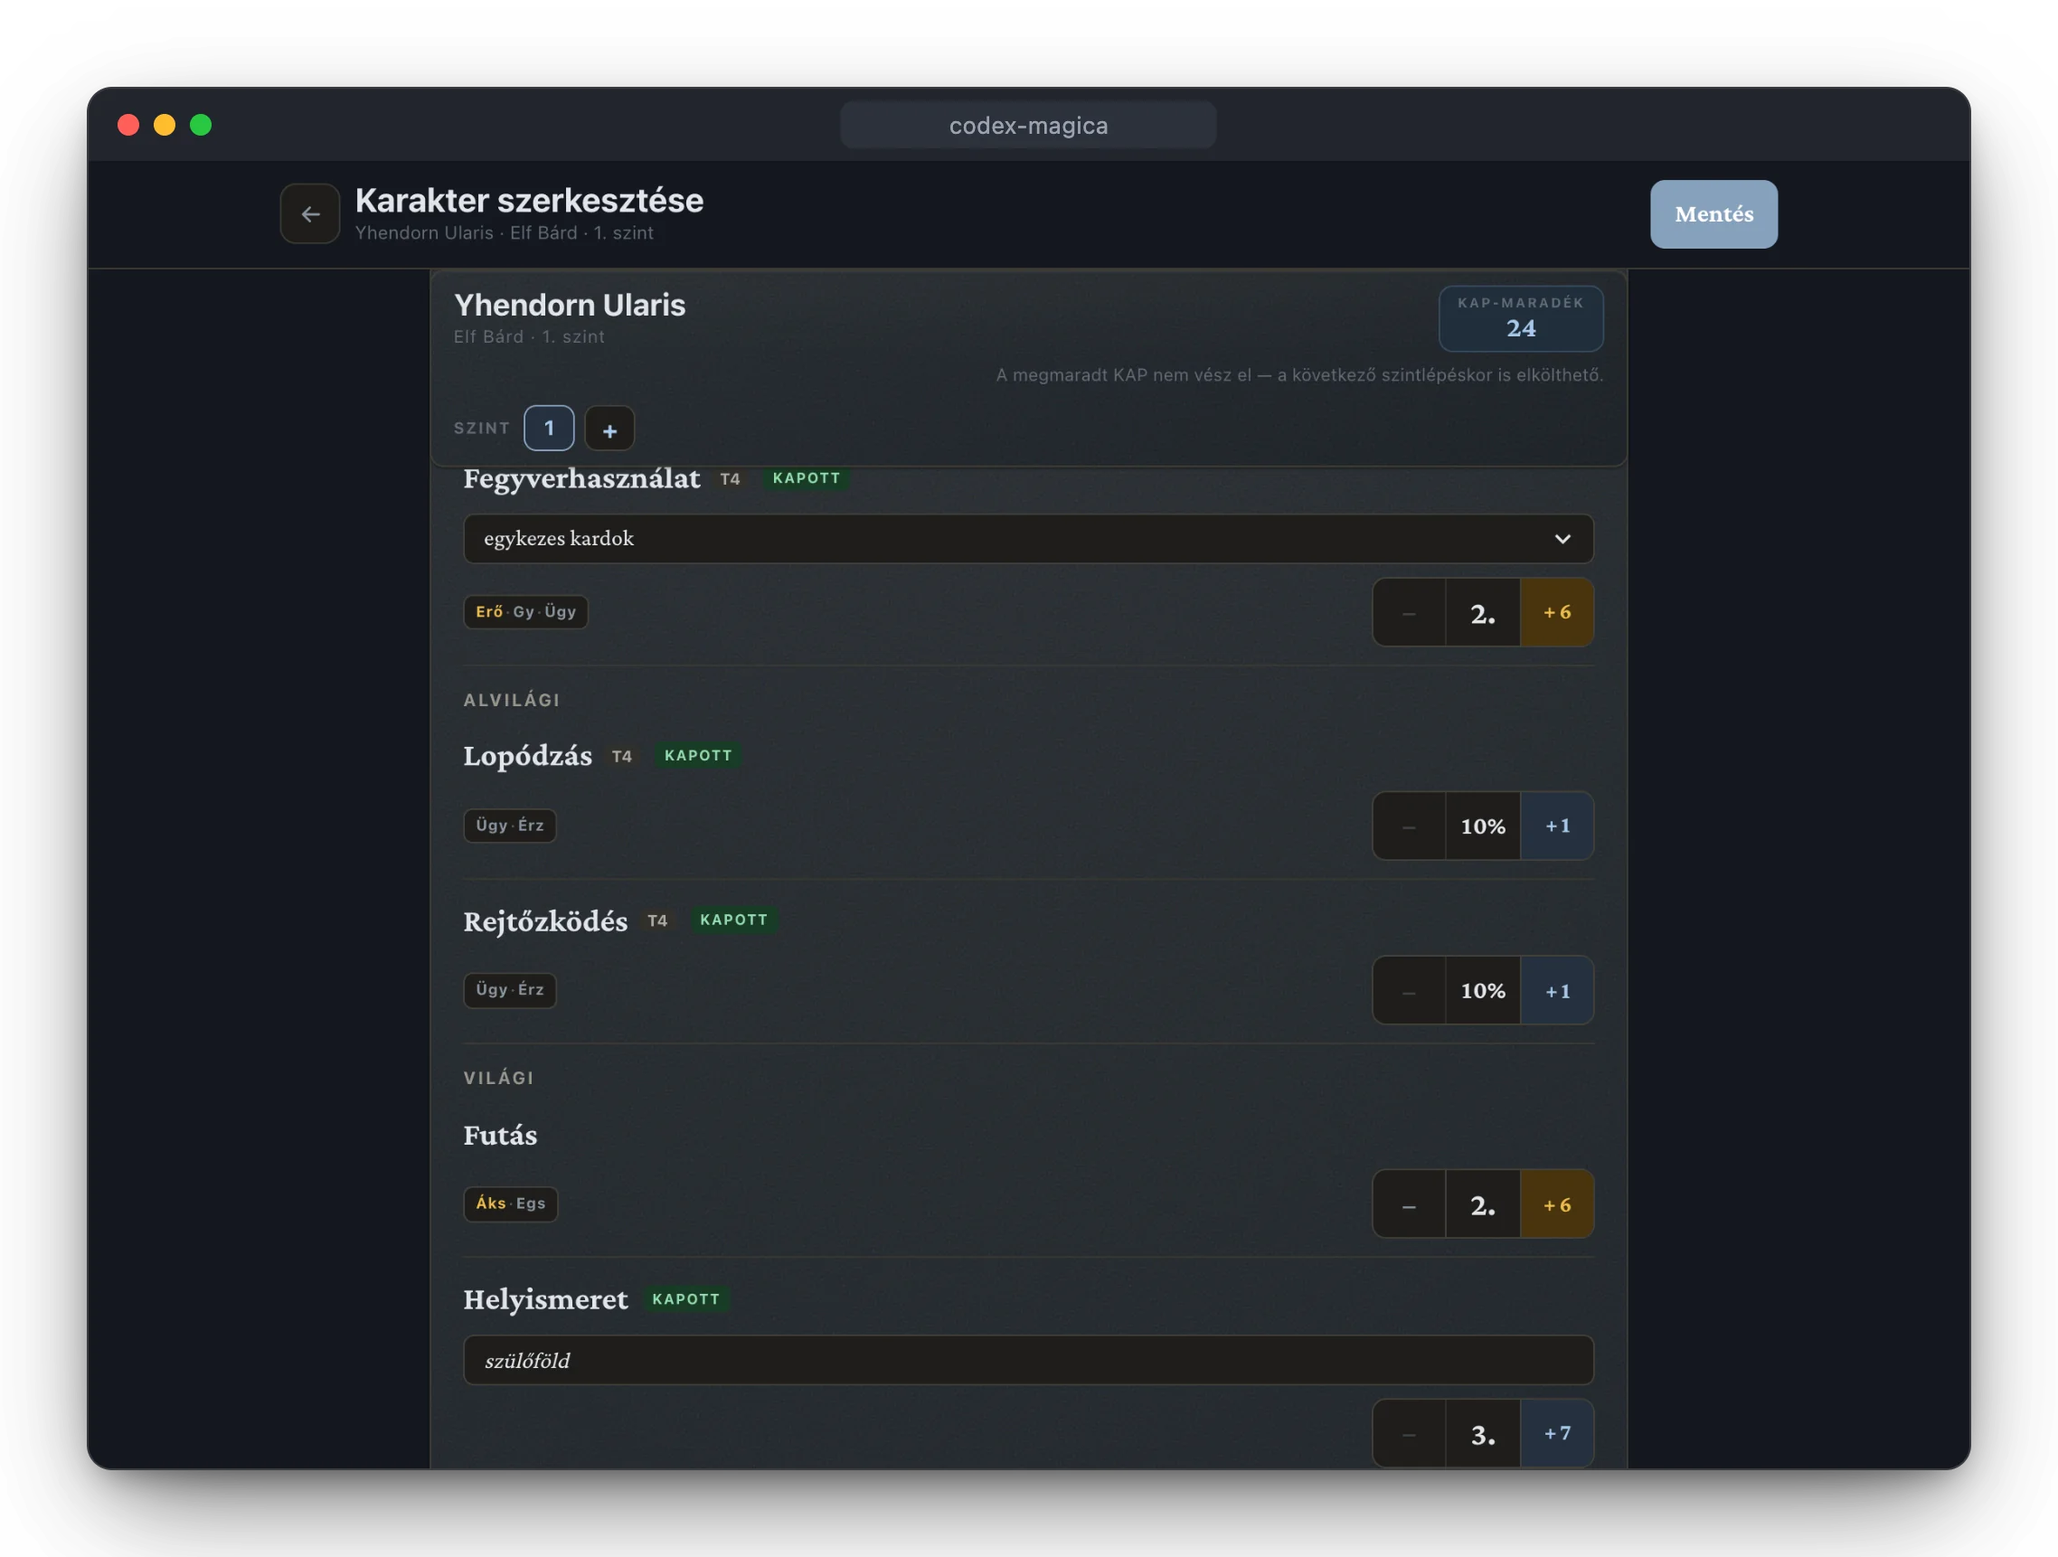
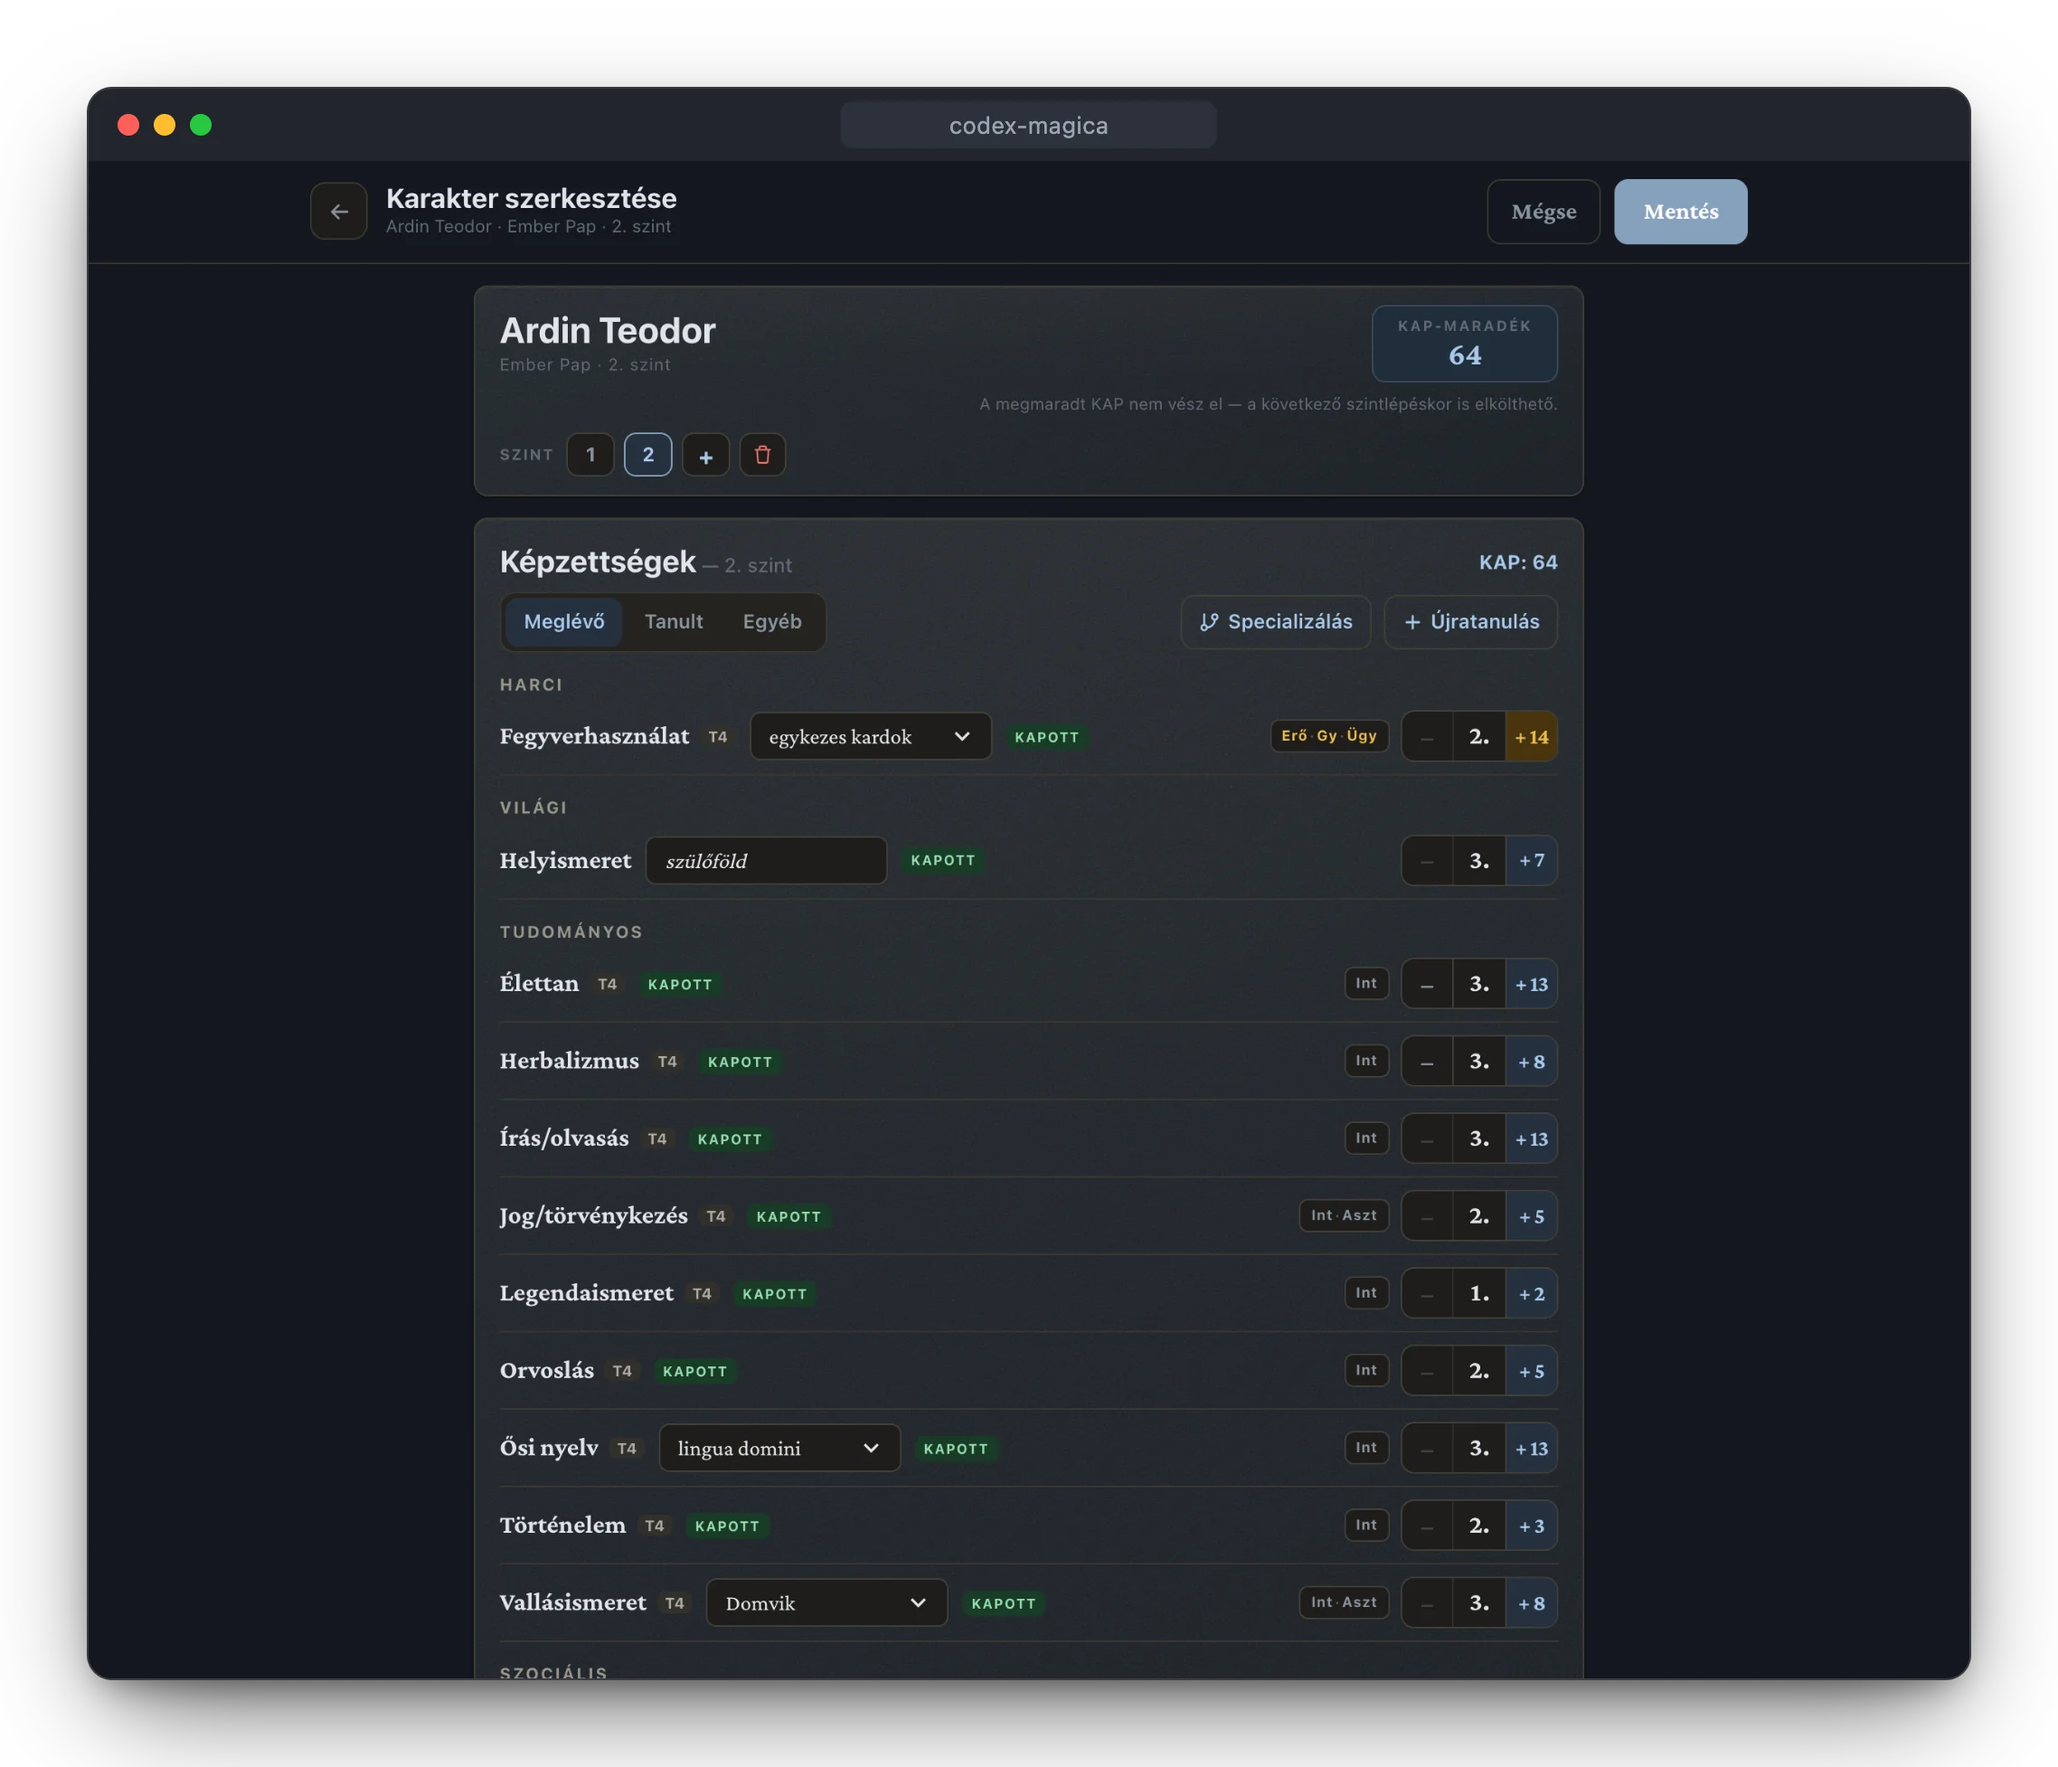
Builder screenshot in the wide layout; subtype field fits its common values
- New README screenshot of the character builder (light and dark): a level-2 priest at a desktop
  width, so every skill sits on one line, with the level strip, the skills header and twelve
  rows in view. The old one was taken just below the wide-layout breakpoint and every row wrapped.
- The inline subtype field is 160 px instead of 128 px on wide screens, so "egykezes kardok",
  "lingua domini" and the "altípus kötelező…" placeholder show in full. Measured: the busiest rows
  (the warrior's) still fit on one line at the narrowest wide-screen width.

diff --git a/src/ui/skills/SubtypeControl.tsx b/src/ui/skills/SubtypeControl.tsx
@@ -3,7 +3,7 @@ import { Box, Input, Select } from "@chakra-ui/react";
 import { SKILL_BY_NAME, SkillDef, fixedSubtypesOf } from "../../model/skills";
 
 // phones: the subtype control gets its own full-width line in the row; md+: a compact inline field
-export const SUBW = { base: "100%", md: "128px" };
+export const SUBW = { base: "100%", md: "160px" }; // fits the common values ("egykezes kardok", "altípus kötelező…") on one line
 
 export const SubtypeInput: React.FC<{
   value: string;

diff --git a/README.md b/README.md
@@ -97,7 +97,7 @@ book's order, with a table of contents that tracks your scroll position.
 
 <picture>
   <source media="(prefers-color-scheme: dark)" srcset="docs/assets/creator-dark.webp">
-  <img src="docs/assets/creator-light.webp" alt="Character editor: skill purchases with granted skills, attribute requirements and KAP costs">
+  <img src="docs/assets/creator-light.webp" alt="Character editor for a level-2 priest: the level strip, remaining KAP, and the skills one per line with granted marks, subtypes, attribute requirements and costs">
 </picture>
 
 **Character builder.** Skills granted by your class are marked, costs and attribute
